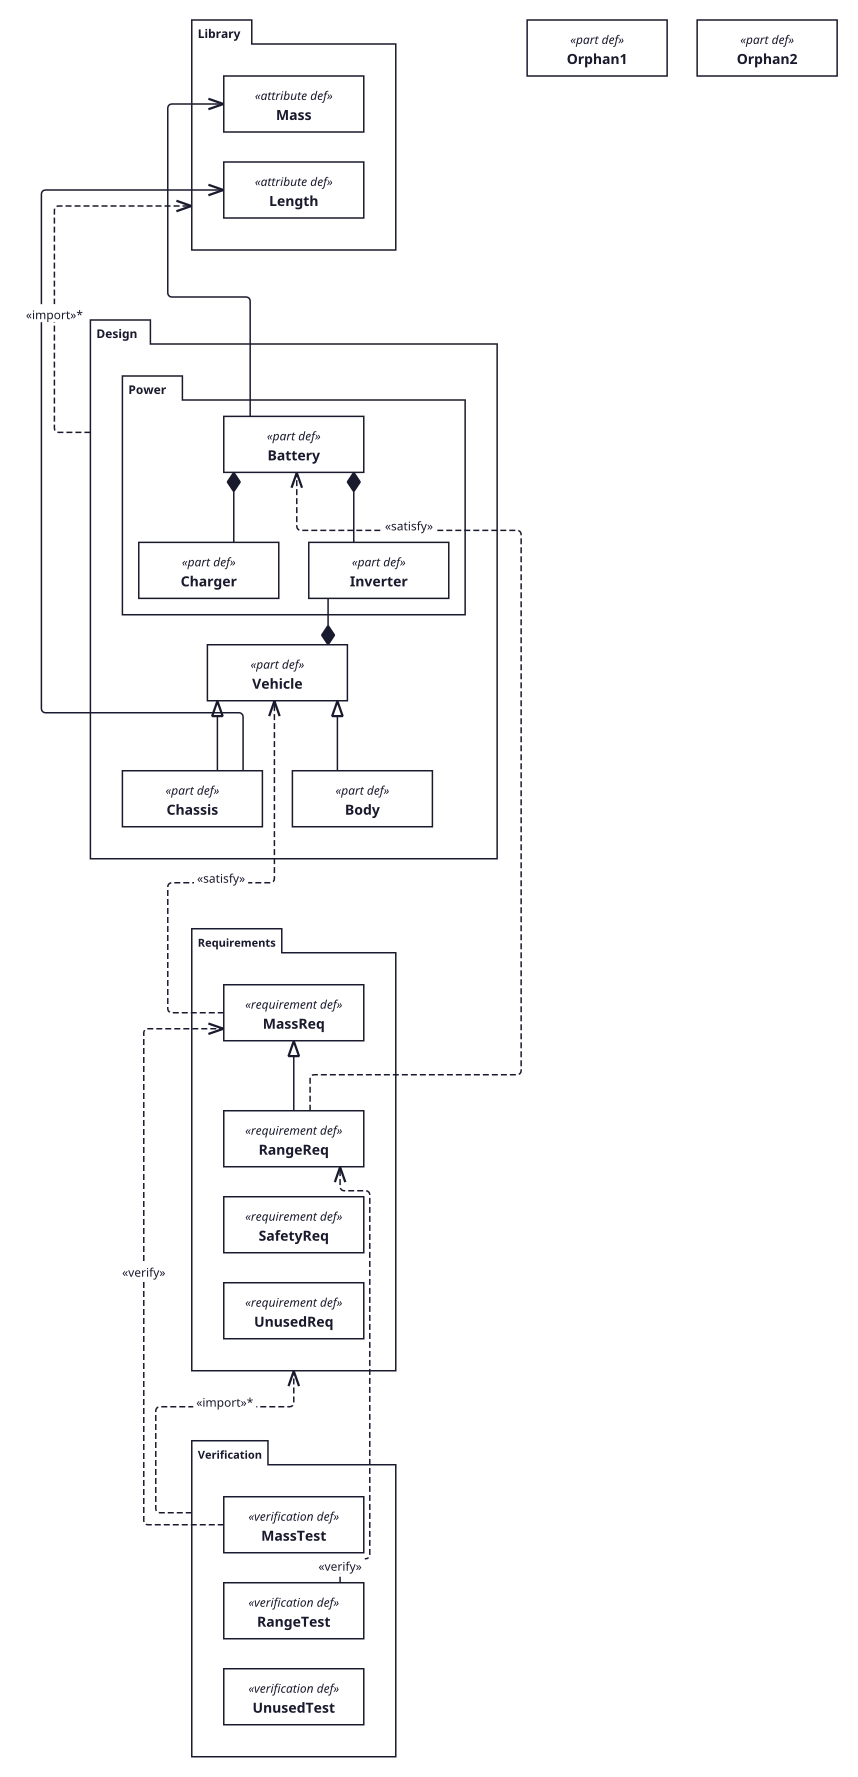
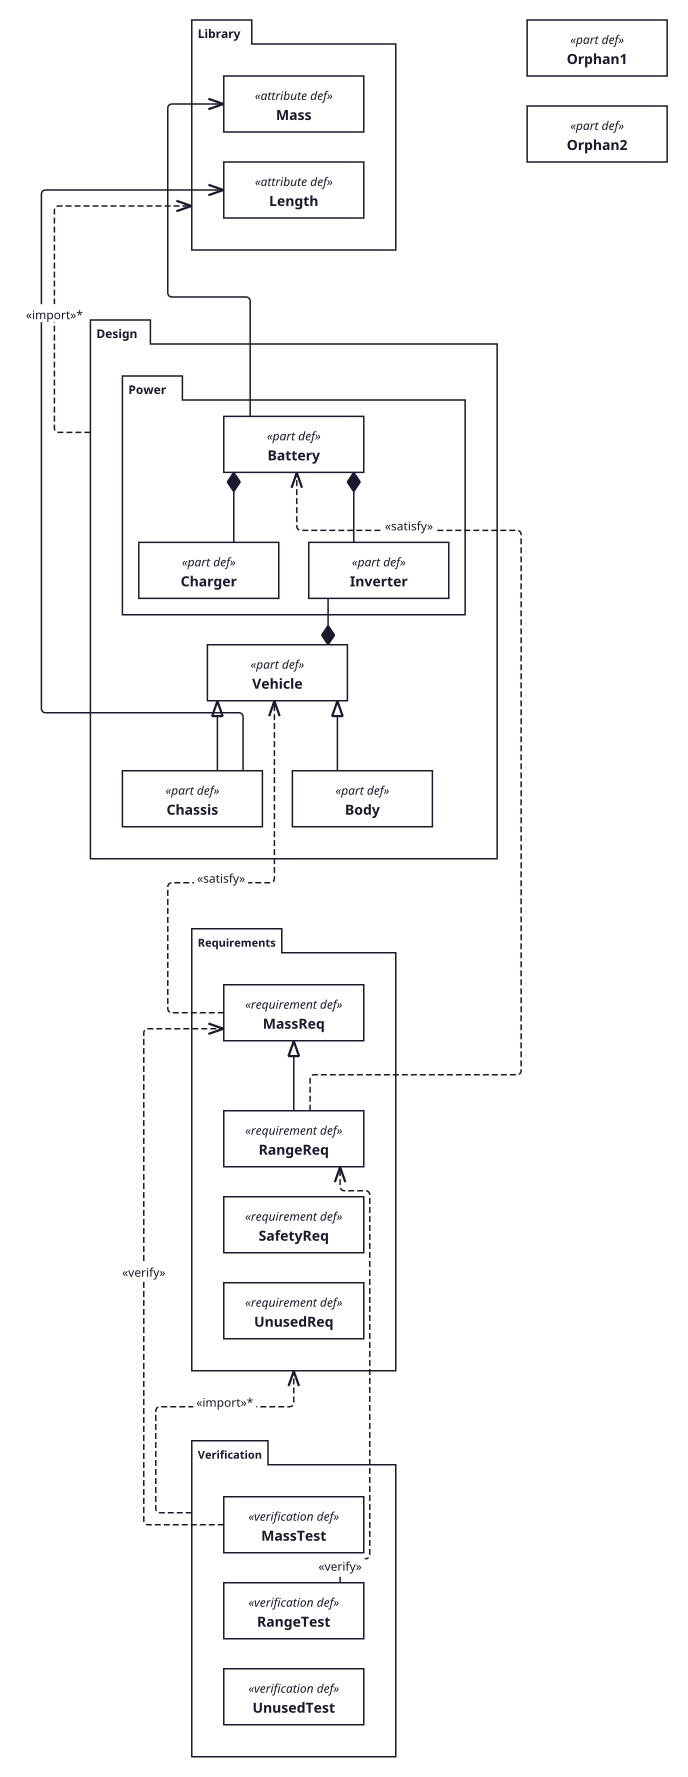
docs(gallery): regenerate after tied packer score fix (refs #48, #60)
NestedPackagesUp: the two orphan boxes now stack instead of sitting side by side (tied aspect-penalized score, strictly smaller area); canvas 857.1x1776.7 -> 687.1x1776.7, bends 484 -> 324 total-bend metric.

diff --git a/docs/gallery/layout-quality/metrics.md b/docs/gallery/layout-quality/metrics.md
@@ -17,7 +17,7 @@ constants in the test project; *after* is measured when this page is generated, 
 | `Repro3Right` | 2 → 0 | 1148x308 → 1076.7x264.6 | 353584 → 284860 (-19.4%) |
 | `NestedDepthRight` | 1 → 0 | 1276x548 → 1276x542 | 699248 → 691592 (-1.1%) |
 | `NestedPackagesRight` | 3 → 3 | 1564x616 → 1550x616 | 963424 → 954800 (-0.9%) |
-| `NestedPackagesUp` | 7 → 4 | 879.4x1808 → 857.1x1776.7 | 1589955 → 1522924 (-4.2%) |
+| `NestedPackagesUp` | 7 → 4 | 879.4x1808 → 687.1x1776.7 | 1589955 → 1220877 (-23.2%) |
 | `GeneralViewUp` | 22 → 12 | 1310.4x1690 → 1098x1746 | 2214576 → 1917108 (-13.4%) |
 | `DenseUsageTree` | 43 → 43 | 2474x898 → 2474x794 | 2221652 → 1964356 (-11.6%) |
 | `InterconnectionLabeledCorridors` | 0 → 0 | 2237.1x319.6 → 2158.6x319.6 | 714984 → 689891 (-3.5%) |
@@ -34,7 +34,7 @@ constants in the test project; *after* is measured when this page is generated, 
 | `Repro3Right` | 132 → 108 | 2.36 → 1.93 | 0.133 → 0.165 |
 | `NestedDepthRight` | 344 → 344 | 6.14 → 6.14 | 0.078 → 0.079 |
 | `NestedPackagesRight` | 268 → 268 | 4.79 → 4.79 | 0.138 → 0.140 |
-| `NestedPackagesUp` | 496 → 484 | 8.86 → 8.64 | 0.084 → 0.088 |
+| `NestedPackagesUp` | 496 → 324 | 8.86 → 5.79 | 0.084 → 0.109 |
 | `GeneralViewUp` | 440 → 412 | 7.86 → 7.36 | 0.094 → 0.108 |
 | `DenseUsageTree` | 388 → 244 | 6.93 → 4.36 | 0.100 → 0.113 |
 | `InterconnectionLabeledCorridors` | 128 → 128 | 1.04 → 1.04 | 0.204 → 0.212 |
